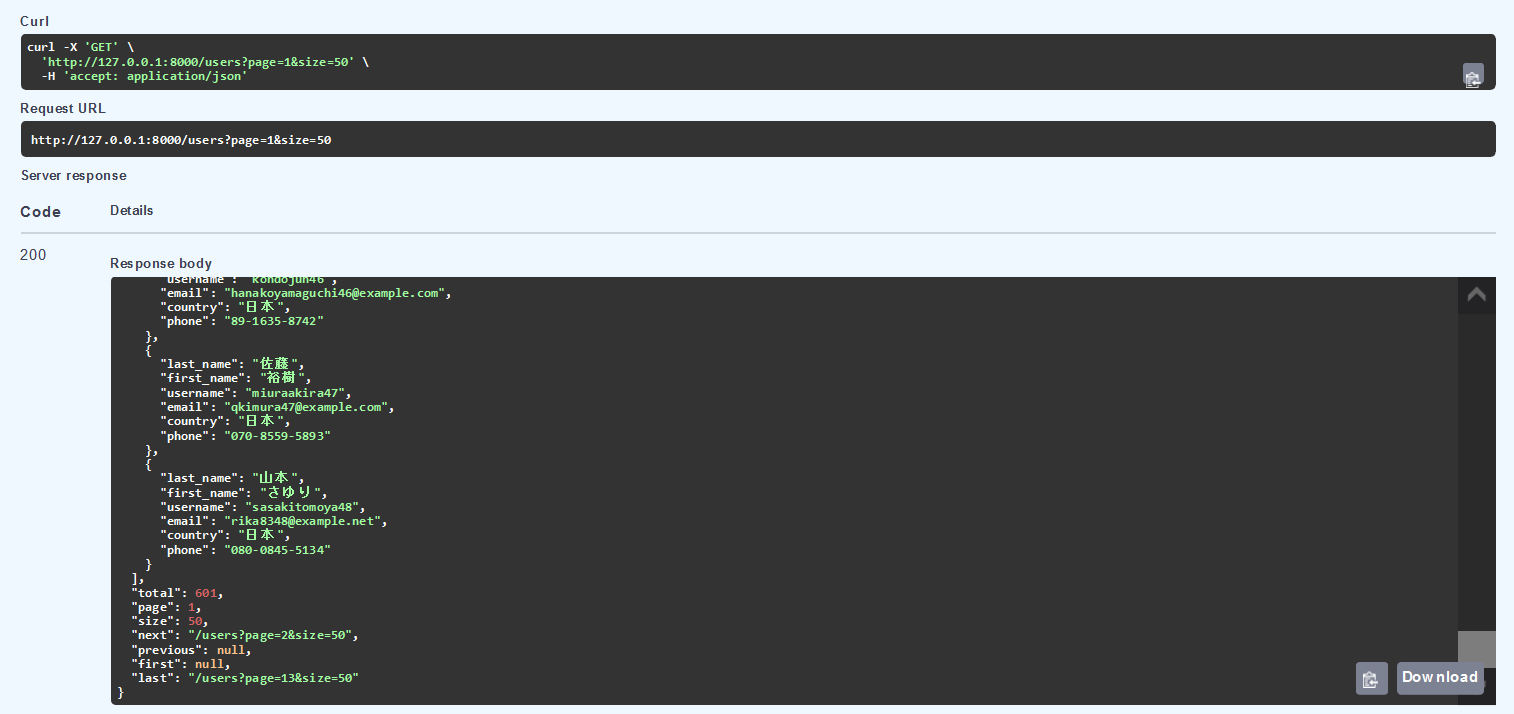
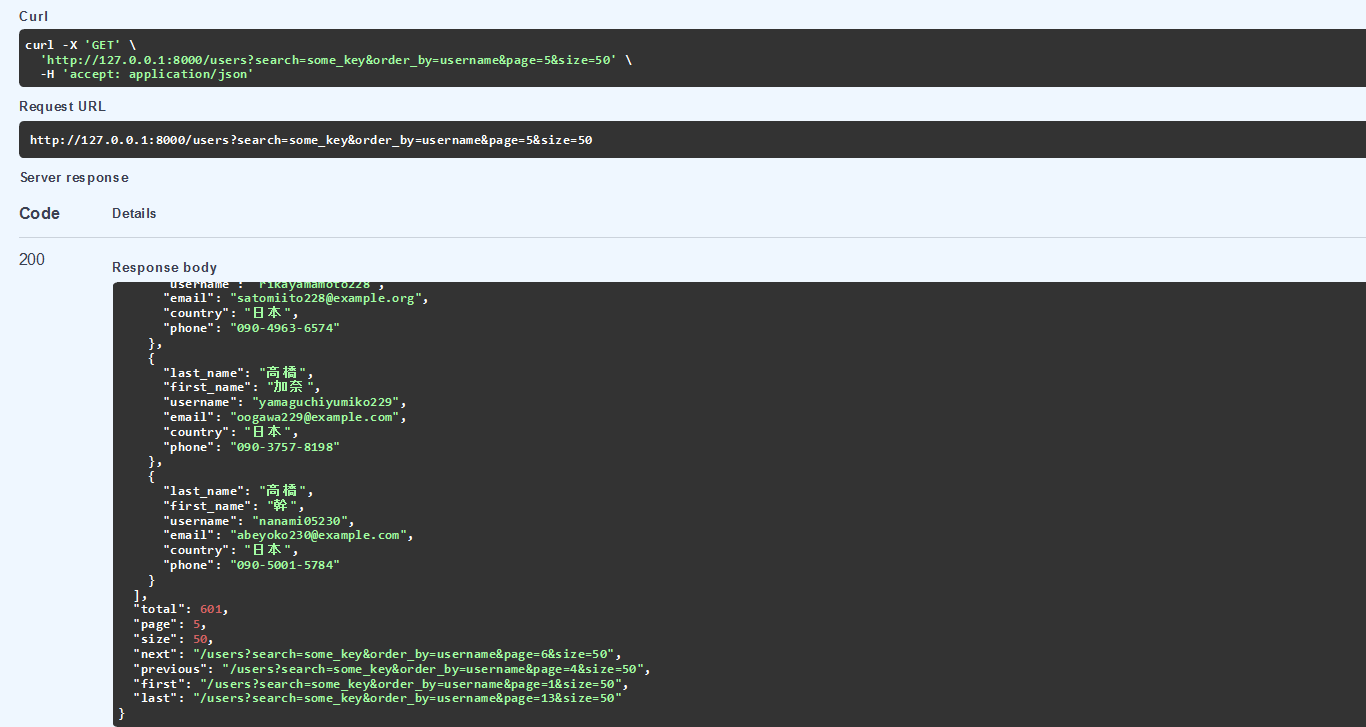
:memo: updated readme

Changed region(s): [[0.0615, 0.3389, 1.0, 1.0], [0.0, 0.0, 1.0, 0.3081], [0.0, 0.3389, 0.0307, 0.3697]]

diff --git a/README.md b/README.md
@@ -4,6 +4,20 @@
 [![codecov](https://github.com/nazmulnnb/fastapi-paginate/workflows/Test/badge.svg)](https://github.com/nazmulnnb/fastapi-paginate/actions)
 [![PYPI](https://img.shields.io/badge/code%20style-black-000000.svg)](https://github.com/psf/black)
 
+
+fastapi-paginate is an extended work of fastapi-pagination. 
+fastapi-paginate returns following extra meta information:
+* next: endpoint of the next page.
+* previous: endpoint of the previous page. 
+* first: endpoint of the first page.
+* last: endpoint of the last page.
+
+All of these meta keeps all the filter parameters passed by the client and returns as it is.
+If any of these meta is not available, it will return null.
+
+example:
+![OpenAPI](docs/img/openapi_example.png)
+
 ## Installation
 
 ```bash
